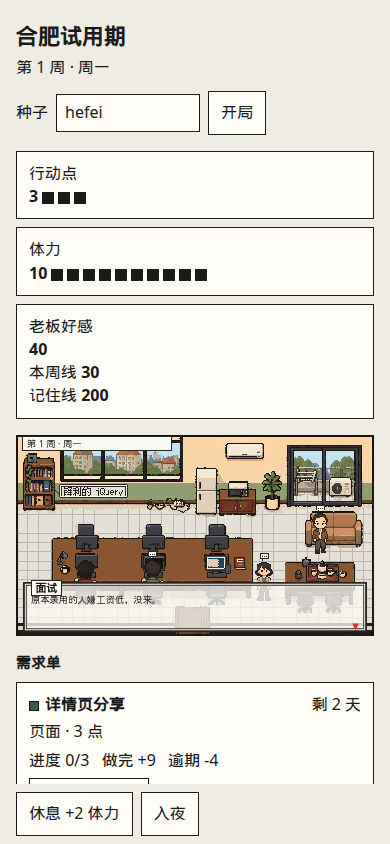
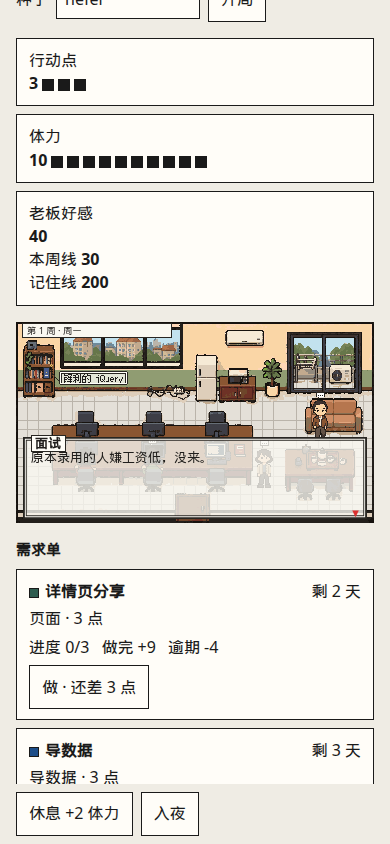
把设计师说明放回合肥原型目录，并加大窄屏对话字号
线上美术记录恢复成 0471bd6。390 宽时名牌、正文和选项至少 13px，对话窗仍在场景框内。操作按钮的点击和对比度加了检查。

diff --git a/games/career-rpg/proto/style.css b/games/career-rpg/proto/style.css
@@ -370,14 +370,14 @@ dd { margin: 0; }
   background: #fffef8;
   border: calc(1 / 384 * 100cqw) solid #282622;
   padding: 0 calc(4 / 384 * 100%);
-  font-size: calc(12 / 384 * 100cqw);
+  font-size: max(13px, calc(12 / 384 * 100cqw));
   line-height: 1.2;
   font-weight: 650;
 }
 
 .dialogue p {
   margin: 0;
-  font-size: calc(10 / 384 * 100cqw);
+  font-size: max(13px, calc(10 / 384 * 100cqw));
   line-height: 1.1;
 }
 
@@ -394,7 +394,7 @@ dd { margin: 0; }
   border: calc(1 / 384 * 100cqw) solid #282622;
   background: #f9f8f1;
   color: #201e1c;
-  font-size: calc(10 / 384 * 100cqw);
+  font-size: max(13px, calc(10 / 384 * 100cqw));
   line-height: 1.1;
 }
 
@@ -505,6 +505,13 @@ button:disabled, button:disabled:hover {
 }
 
 .cell.hot .creep { background: #fffdf8; }
+
+@container (max-width: 520px) {
+  .dialogue {
+    top: calc(124 / 216 * 100%);
+    height: calc(88 / 216 * 100%);
+  }
+}
 
 @media (max-width: 720px) {
   header, .status, .board { display: block; }

diff --git a/games/career-rpg/art/README.md b/games/career-rpg/art/README.md
@@ -1,135 +1,43 @@
-# 像素前端 · 合肥试用期玩法 · 像素视觉稿 v1
+# 首轮像素美术方向
 
-状态：候选稿，每张只出一个推荐款，等用户过图。没写游戏代码，没改仓库。
-所有坐标都是**美术建议，最终以工程定的为准**。
+## 当前制作路线（2026-11-05）
 
-## 文件（每张都有逻辑尺寸 + `-x4` 最近邻放大）
+人物、表情和关键动作采用image_gen，实际输入南京对应参考；已有可用人物优先复用。程序负责可复用环境物件及裁切、锚点、图集排布和压缩，原图完整归档，视觉变化须对照复核。详细流程见[技术方案](../technical-plan.md)和[美术规范](./style-guide.md)。程序人物样品只作实验，不替代image_gen人物路线。
 
-| 文件 | 内容 | 逻辑尺寸 |
-|---|---|---|
-| `01-main-day.png` / `-x4` | 主界面 · 白天（第 2 周 · 周一，示例状态） | 384×424 |
-| `01b-main-day-talk.png` / `-x4` | 白天 · 和饭搭子说话（对话窗 + 两个选项） | 384×424 |
-| `02-main-night.png` / `-x4` | 主界面 · 夜里（熬夜 / 开黑队友来叫打 Dota） | 384×424 |
-| `06-dota-minigame.png` / `-x4` | 打 Dota 补刀小游戏（打到一半） | 384×216 |
-| `03-ending-quit.png` / `-x4` | 结局「被劝退」 | 384×216 |
-| `04-ending-stay.png` / `-x4` | 结局「勉强留下来」 | 384×216 |
-| `05-ending-remembered.png` / `-x4` | 结局「留下来，还被老板记住了」 | 384×216 |
-| `07-seated-sprites.png` / `-x4` | 坐姿精灵表（透明底），4 列 × 4 行 | 224×224 |
-| `overview.png` | 总览（x2，含 07） | 2368×1916 |
-| `source/` | `build.py`（01/01b/02/结局）、`dota.py`（06）、`overview.py`、`layout.json`、字体（Fusion Pixel，OFL 授权） | — |
+用户已授权先准备剩余场景缺失的人物图，按[全旅程人物清单](./character-roster.md)登记生成与复用；这项素材准备不代表场景通过或允许批量接入。以下内容保留为历史，不按旧“仅概念图”状态推进任务。
 
-## 画布
+## 当前成品与合并结论（2026-11-05）
 
-- 主界面 384×424 = 上面是场景 384×216（和 hefei-v3 一样大），下面是 HUD 384×208，用黑色游戏框做底。
-- 结局卡和 Dota 小游戏是 384×216，盖在场景区上面。
-- 中文用 Fusion Pixel 10px / 12px 位图字体渲染，不抗锯齿，一个像素一个像素都是实心的；标题是 12px ×2。没有用生图模型出中文。
+南京完整样章已接入 `../web/art/office-room-v2.png`、`player-walk-v1.png`、`npc-team-v1.png`、`player-emotions-v1.png`、`typing-team-v1.png`；人物设定为本目录的 `character-front-v1.png`、`character-four-directions-v1.png`。这些已实现素材共同构成用户本次指定基准，详见[美术规范](./style-guide.md)。本轮已通过 `view_image` 打开七张原图核对，未重画、未规整或修改原图。
 
-## 复用的素材（没有从头重画）
+下列段落与同名 review 是各轮当时的记录，“尚未四向”“尚无动画”等不再代表当前实现。旧 v1 概念板只辅助；grid-sample 曾被作者认为不好看，不作为正式造型。最新坐姿／气泡视觉、严格网格等未验结论继续保留，不以素材齐备冒充验收通过。
 
-- 场景：`hefei-v3/hefei-office-day/day-384x216.png`、`hefei-office-night/night-384x216.png`（夜里那张自带台灯光圈）
-- 桌上道具：`hefei-v2/hefei-props`（linux-git-screen、db-nosql-screen、java-book）。frontend-jquery 显示器没放，因为 jQuery 现在是书架彩蛋
-- 人物：`typing-team-v1`（坐着打字的背影：我 = 红衣，隔壁工位老哥 = 绿衣）、`npc-team-v1`（饭搭子 = 米色外套，开黑队友 = 蓝外套戴眼镜）、老板 = `hefei-founder-walk`，老板头像 = `hefei-founder-emotions/approving-32`、玩家 = `player-walk-v2`
-- 对话窗 = dialogue-ui-v1 的米色样式（x=8, y=158, w=368, h=54，四圈描边：墨 / 墨 / 亮边 / 墨，白名牌，红色向下箭头）
+目标此前的 [NJ-CHAR-001](./requests/NJ-CHAR-001.json) 重复请求已标 `superseded`，指向现有四向与行走图，不再等待生成。[旧清单](./nanjing-scene-inventory.md)与 preflight 仅供追溯，不能作为制作进度。
 
-## 配色
+## 以下为生成历史
 
-- 场景和新画的像素（书脊、纸箱、星光、代码行、影魔、小兵、Dota 草地）都吸附到 `hefei-v3-shared` 调色板里最接近的颜色；没有往调色板里加新色
-- HUD 用锁定的 dialogue-ui-v1 颜色：米色 RGB(249,248,241)、亮边 (255,254,248)、墨色 (40,38,34)、正文 (32,30,28)、次要文字 (110,104,96)、红箭头 (220,48,48)/(140,24,24)
-- **透明度**：叠在场景上的元素（左上周次条、书架标签、对话窗）用 alpha 204。底部 HUD、结局卡和 Dota 按钮是放在黑框上的，所以改成不透明 255；如果在黑底上还用 204，米色会变成灰褐色（大约 205,204,198）。这是我做的取舍，请过图时确认
+## 严格网格小样
 
-## 界面元素和规则文档 / 原型的对应关系
+2026-11-04：[小样说明](./grid-sample-v1/README.md)、[预览](./grid-sample-v1/preview.png)、[自检](./grid-sample-v1/verification.json)与[独立抽验](./grid-sample-v1/codex-audit.json)。Flash 制作原始矩阵和导出流程，Codex 按用户授权接管人物可读性和精确配色检查。小样技术检查通过，作者尚未确认；未替代办公室概念板或生产素材验收。
 
-| 界面上 | 来源 |
-|---|---|
-| 行动点 3/3（3 个格子）、体力 10/10（10 个格子）、老板好感 45 + 本周线 40 | 文档「资源」，原型标签「行动点 / 体力 / 老板好感 / 本周线」 |
-| 需求单：写一个文件数据库（主线 · 8 点 · 第 4 周周五前 · 进度 0/8 · 做完 +30 · 先学数据库）、写接口（剩 1 天 · 做 · 还差 3 点）、排查服务器日志（已延期 · 逾期 -4） | 原型截图 `review/filedb-locked.png` 里的原文 |
-| 技能卡：Linux 0/2、Git 0/3、数据库 0/3、Java 0/4（只能夜里学）、jQuery 0/3（书架彩蛋，按钮写「读」） | 文档「技能」+ 原型。卡片太窄，效果句做了缩写，比如「服务器单、事件单 1 点」「接口单 -1 点 / 大单每次 +1」，意思和文档一致，最终措辞以工程为准 |
-| 区块标题「需求单」「技能」 | 原型用「需求单」；「技能」取自文档章节名（原型里叫「学习」+「书架」） |
-| 白天按钮「休息 +2 体力」；夜里按钮「熬夜 +1 点 / -3 体力」「睡觉，进入下一天」 | 原型按钮文案 + 文档「夜里熬夜」 |
-| 书架彩蛋：书架中间一层抽出半本蓝书，旁边有星光，墙上挂一块米色小牌「锋利的 jQuery」 | 文档「彩蛋」 |
-| 四个能互动的人（只用一个白色「…」小气泡表示能点，不写任何文字提示） | 文档「能互动的同事」 |
-| 01b 对话：名牌「饭搭子」，台词「好饿，去吃面吗？」，选项「去（-1 行动点 +3 体力）」「下次」；选中的那项用浅黄底 + 红色像素三角 | 用户给的原话。文档里写的是「好饿，去吃面」，没有「吗？」，我用了用户这一版 |
-| Dota：「打 Dota」「影魔，三个影压」「补刀 2/6」「还剩 21 秒」「跳过」，按钮「短 / 中 / 远」 | 原型 dota 界面 + 文档。原型显示的是「击杀 N」，我按用户和文档的说法（补刀满 6 个）改成了「补刀」 |
-| Dota 跑道：影魔站在第 0 格，第 1–7 格是路，第 2/4/6 格分别标「短 / 中 / 远」 | 原型 `dota.mjs`（距离 2/4/6）。用户说的是「三格」，我按原型画了 7 格，其中 3 格打了标记，请确认 |
-| 结局小字：被劝退「第 1 周周五，老板好感 28，低于本周线 30，被劝退。」；勉强留下来「勉强留下来。人留下了。文件数据库还没写完。」；记住了「留下来，还被老板记住了。文件数据库交上去了。」 | 原型 `rules.mjs` 的 failReason 模板和 `config.mjs` 的 ENDINGS（数字是示例） |
-| 结局数据栏：周次 / 好感 / 本周线 / 体力 / 做完的单 / 延期与事故 / 学会 / 文件数据库，按钮「再来一局」「换个种子」 | 原型结局页字段；数值是示例，卡上标了「（数据为示例）」 |
+2026-11-04，使用内置 imagegen 生成 [概念板 v1](./nanjing-art-direction-v1.png)，完整提示词见 [prompt-v1.txt](./prompt-v1.txt)。
 
-## 站位（脚底锚点，逻辑像素 · 美术建议，最终以工程定的为准）
+本图是待审阅的概念参考，尚未获得用户对具体视觉的确认。主场景为南京办公室，辅以主角前／侧／背面、配色、道具、合肥宿舍、南京深夜与对话框。场所、服装和人物外貌均为设定，不还原真实办公室或本人外貌。
 
-| 角色 | 位置 |
-|---|---|
-| 我 | B1 工位 (75,176)，坐着，背对镜头 |
-| 隔壁工位老哥 | B2 工位 (147,176)，坐着（就在玩家右手边） |
-| 饭搭子 | 站在 B3 工位右边的过道 (266,178) |
-| 老板 | 茶桌，沙发和茶桌之间 (326,128) |
-| 开黑队友（只在夜里） | 站在玩家工位右后方过道 (106,200) |
+AI 视觉复核：方向、办公室动线、角色识别与中文对话可读；暖色日景和夜间书桌存在明确区别。图中带有纹理、细腻阴影及不统一的像素大小，不符合严格生产网格；仅给出一侧侧面，未提供完整四向动画。正式制作时需要规整素材、削减细节，并在实际渲染中确认像素清晰度。概念板不能直接作为图集切割使用。
 
-文档只写了「站在工位或茶桌边」，具体坐标是我定的。
+下一次审阅聚焦：是否喜欢这一视角与人物比例，是否需要更粗颗粒的像素，整体是否过于温暖或可爱。确认方向后再做一组严格网格样品，暂不制作其他城市完整地图。
 
-HUD 位置（01/02）：周次条 (6,2)；三个指标框 y=220，宽 124，高 30；需求单 y=267，宽 140/108/128，高 60；技能卡 y=344，宽 74×4 + 72，高 58；按钮行 y=406。对话窗 (8,158,368,54)。
+## v2 / v3 修订记录
 
-## 还需要手工或代码打磨的地方
+2026-11-04：Flash 生成 [v2 提示词](./prompt-v2.txt)和[自检计划](./review-v2-plan.md)，Codex 使用内置 imagegen 生成 [v2](./nanjing-art-direction-v2.png)，再按 [v3 提示词](./prompt-v3.txt)编辑为 [v3](./nanjing-art-direction-v3.png)。未覆盖 v1。
 
-- 01b 的对话窗会挡住饭搭子的腿，dialogue-ui-v1 也是这样处理的；如果要露出全身，需要工程把她往上挪
-- 半透明的周次条和书架标签压在窗框上，背后的窗框会透出来；只是装饰性的，文字仍然清楚
-- 夜里显示器上的代码行 / 小地图只有几个像素（玩家的头挡住了屏幕中间），想更明显可以做成动画闪烁
-- 星光、选项光标、▼ 闪烁这些动画交给工程
-- 技能效果的缩写措辞需要工程 / 制作人确认
+[v2 自验](./review-v2.md)、[v3 自验](./review-v3.md)和[图片审计](./image-audit-v2-v3.json)已落盘。v3 轮廓更简洁，但仍有渐变与像素尺度问题，尚未通过 ART-01，不要求作者正式验收。
 
-## 06 影魔（v2，按用户反馈「原版形象像素化」重画）
+## 按样张重画正面角色
 
-- 旧版原创恶魔已备份到 `source/_old-06/`
-- 参考图只放在 `source/ref-shadowfiend/`（`render.png`、`portrait.png`，来自 Steam 官方 CDN），只作参考，没有直接贴进游戏图
-- 流程：GenerateImage 先出一张像素风草稿（`source/sf-pixel-gen.jpg`，提示词见 `source/sf-prompt.txt`）→ 抠白底 → 缩到 1× 高 56px → 吸附到 8 色 SF 调色板 → 去掉孤立杂点 → 加 1px 外描边 → 手工补红光描边、双眼、胸口魂火、底部火星（`source/sf.py`）。成品是 `source/sf-56.png`，47×58，透明底，硬边
-- 能认出来的特征：一对弯角、翅膀一样的肩刺、发红光的双眼、胸口魂火、细长手臂和爪子、下半身化成烟和火星
-- 1× 显示，和小兵、跑道一个比例；占的格子和之前差不多，因为有角，高了几个像素。小兵仍是 2×
-- **新加的颜色**（只给影魔用，hefei-v3 调色板之外追加）：#120A14、#281428、#421E34、#601622、#961A1E、#CE281E、#F46028、#FFBE5A，外描边 #0C080E
+[正面角色 v1](./character-front-v1.png)参考办公室 v3 样张，内置 imagegen 生成；[完整提示词](./character-front-v1-imagegen-prompt.txt)与[审阅记录](./character-front-v1-review.md)已保存。本轮审阅造型，尚非生产图集。
 
-## 坐姿（v2，按用户反馈「小人像蹲在椅子上」重做）
+## 四向角色与办公室道具
 
-- 旧图已备份到 `source/_old-seated/`（01、01b、02、03、04、05、overview）
-- **背面（下排 B1–B3 工位）**：仍用 `typing-team-v1` 的头和上身，整体下沉 2px，在 y=163 以下把腿和裤子裁掉（不再露出蹲着的腿），然后把场景里的椅背像素（y 158–175）重新画在人的前面。效果是人坐进椅子、靠着椅背，只露出头、肩和放在桌沿上的手。改动涉及 01、01b、02，以及 03（老哥）、04（我和老哥）。05 里没有坐着的人，所以没改
-- **正面（上排 T1–T3，暂时没人坐）**：用站立精灵的上身（0–28 行）+ 5 行往镜头方向缩短的大腿（膝盖有一行亮色，两腿之间有一条暗缝）+ 4 行垂下来的小腿和鞋。在场景里桌面和显示器会挡住腿
-- **07 精灵表** 224×224，每格 56×56，透明底。列：我、隔壁工位老哥、饭搭子、开黑队友。行：① 背面裸图 ② 背面坐在 B1 椅子上（带场景） ③ 正面裸图 ④ 正面坐在椅子上（借用 B1 椅子做背景）
-- 单张素材在 `source/seated/`：`{player,neighbor,lunch,gamer}-{back,front}.png`，尺寸见 `meta.json`
-
-**锚点（美术建议，最终以工程定的为准）**
-
-| | 精灵尺寸 | 怎么放 | 臀部点 |
-|---|---|---|---|
-| 背面 | 25–26 × 29 | 左上角 = (座位 x − 12, 134)，例如 B1 = (63,134)，B2 = (135,134)；画完人再画椅背（x = 座位 x ± 10，y 158–175，只画椅子颜色的像素） | 精灵内 (12, 28)，对应场景 (座位 x, 162) |
-| 正面 | (原宽 + 2) × 38 | 脚底锚点 = 座位 (x, 107)，桌子和显示器画在人前面 | 精灵内 (宽/2, 29)，也就是大腿开始的那一行 |
-
-- 正面坐姿（v3）：手不再垂在两侧。手肘留在身体两侧（袖子），前臂往前搭过腰线，双手放在大腿上（3×2 肤色，下面有暗边），见 `source/hands.py`。坐在椅子上那一行也是手放在腿上。尺寸和锚点都没变。改之前的版本备份在 `source/_old-07-hands/`
-
-## 结局卡 · 无字版（-notext）
-文件：`03-ending-quit-notext(-x4).png`、`04-ending-stay-notext(-x4).png`、`05-ending-remembered-notext(-x4).png`。原图没动。
-生成方式：`python3 source/build.py endnotext`，也就是给 `ending(kind, notext=True)` 加了一个开关，没有手工擦图。
-无字版去掉了所有烤进图里的字：标题、示例文案、数据（好感、本周线等）、字段名，还有按钮上的字。插图、奶油色卡片、双线边框都保留，「被老板记住」那张的金色外框也在。原来放字的地方换成同款双线边框的空白奶油面板，字全部交给代码来画。
-
-文字区（卡片是 384×216，格式为 x, y, w, h）——**美术建议，最终以工程定的为准**
-| 区域 | 矩形 | 原来的内容 |
-|---|---|---|
-| header | (26, 16, 332, 42) | 结局标题（2 倍字号，居中）+ 一行摘要 |
-| stats | (202, 60, 156, 104) | 8 行数据（字段名 / 数值，行高 12）+「数据为示例」那行 |
-| btn_retry | (254, 184, 50, 13) | 再来一局 |
-| btn_reseed | (308, 184, 50, 13) | 换个种子 |
-
-插图位置不变，在 (26, 62, 168, 100)，外面有一圈 2px 墨色框。
-建议留白：header 和 stats 里文字离边框至少 5px（边框占 3px）。按钮里的字左边留 5px、上边留 1px，和原来的 button() 一样。
-
-## 02 夜里 v2（`02-main-night-v2(-x4).png`）
-新增的文件，`02-main-night` 原图没有改。生成方式：`python3 source/night_v2.py`。它会读入 build.py 的场景和 HUD，但不改 build.py。
-场景和 HUD 跟 v1 完全一样，「我」（B1）和开黑队友（站在 (106,200)）的位置和画法也照旧。新加了三个坐着的人，**坐标都是美术建议，最终以工程定的为准**：
-
-| 人物 | 位置 | 姿势 | 脚底 / 臀部锚点（384×216） | 包围盒 |
-|---|---|---|---|---|
-| 隔壁工位老哥 | B2 工位 | 背对镜头坐进椅子，用的是 07 的背面坐姿：下沉 2px，y=163 以下裁掉，椅背重新画在人前面 | 脚底 (147,176) | (134,134)–(159,175) |
-| 饭搭子 | B3 工位 | 同上 | 脚底 (219,176) | (206,134)–(232,175) |
-| 老板 | 沙发左边的座位，在茶桌后面，面朝镜头 | 正面坐姿，下半身逐像素手绘（`night_v2.py` 里的 `BOSS_LOWER`）：两只手放在大腿外侧，手的颜色比夜里压暗后的脸稍亮一点，用墨色描边，暗光下也看得出来；袖口顺着身体两侧垂下来；膝盖顶边稍亮；小腿垂在座垫前面 | 臀部 (329,107)，比上一版下沉 3px 坐进座垫，座垫在 y≈99–113 | (320,79)–(339,119) |
-
-- 茶桌那两把椅子朝上（背对镜头），沙发朝下（正对镜头），所以老板坐沙发、用正面姿势。他们三个都没有加对话气泡，因为夜里能互动的仍然只有开黑队友。
-- **夜里的光照只加在新加的三个人身上**：颜色乘以 (0.55,0.6,0.8)，和 v1 里夜间道具用的系数一样。老板那边没有显示器，所以压得更暗一点：(0.5,0.55,0.75)。
-- 老哥和饭搭子面前的显示器亮着，所以在他们的头顶和肩膀上补了一圈很淡的屏幕光：跳过轮廓线，往里 2px，混合 22%。老哥那圈偏绿（B2 屏幕上是代码），饭搭子那圈偏蓝（B3 屏幕上是数据库界面）。
-- 老板两侧加了 1px 的接触阴影：靠背上贴着肩膀和身体两边、座垫上贴着臀部两边，把沙发颜色压暗 28%，看起来是靠在沙发里，不是浮在上面。改之前的版本备份在 `source/_old-night-v2/`。
-- 包围盒存在 `source/night-v2-boxes.json`。
+2026-11-04，Codex 使用内置 imagegen 完成 [四向角色](./character-four-directions-v1.png)和[办公室道具板](./office-props-v1.png)。完整提示词与审阅记录保存为同名 `-prompt.txt`、`-review.md`。造型一致性已复核，尚未制作生产图集或行走动画。

diff --git a/games/career-rpg/proto/art/README.md b/games/career-rpg/proto/art/README.md
@@ -1,0 +1,135 @@
+# 像素前端 · 合肥试用期玩法 · 像素视觉稿 v1
+
+状态：候选稿，每张只出一个推荐款，等用户过图。没写游戏代码，没改仓库。
+所有坐标都是**美术建议，最终以工程定的为准**。
+
+## 文件（每张都有逻辑尺寸 + `-x4` 最近邻放大）
+
+| 文件 | 内容 | 逻辑尺寸 |
+|---|---|---|
+| `01-main-day.png` / `-x4` | 主界面 · 白天（第 2 周 · 周一，示例状态） | 384×424 |
+| `01b-main-day-talk.png` / `-x4` | 白天 · 和饭搭子说话（对话窗 + 两个选项） | 384×424 |
+| `02-main-night.png` / `-x4` | 主界面 · 夜里（熬夜 / 开黑队友来叫打 Dota） | 384×424 |
+| `06-dota-minigame.png` / `-x4` | 打 Dota 补刀小游戏（打到一半） | 384×216 |
+| `03-ending-quit.png` / `-x4` | 结局「被劝退」 | 384×216 |
+| `04-ending-stay.png` / `-x4` | 结局「勉强留下来」 | 384×216 |
+| `05-ending-remembered.png` / `-x4` | 结局「留下来，还被老板记住了」 | 384×216 |
+| `07-seated-sprites.png` / `-x4` | 坐姿精灵表（透明底），4 列 × 4 行 | 224×224 |
+| `overview.png` | 总览（x2，含 07） | 2368×1916 |
+| `source/` | `build.py`（01/01b/02/结局）、`dota.py`（06）、`overview.py`、`layout.json`、字体（Fusion Pixel，OFL 授权） | — |
+
+## 画布
+
+- 主界面 384×424 = 上面是场景 384×216（和 hefei-v3 一样大），下面是 HUD 384×208，用黑色游戏框做底。
+- 结局卡和 Dota 小游戏是 384×216，盖在场景区上面。
+- 中文用 Fusion Pixel 10px / 12px 位图字体渲染，不抗锯齿，一个像素一个像素都是实心的；标题是 12px ×2。没有用生图模型出中文。
+
+## 复用的素材（没有从头重画）
+
+- 场景：`hefei-v3/hefei-office-day/day-384x216.png`、`hefei-office-night/night-384x216.png`（夜里那张自带台灯光圈）
+- 桌上道具：`hefei-v2/hefei-props`（linux-git-screen、db-nosql-screen、java-book）。frontend-jquery 显示器没放，因为 jQuery 现在是书架彩蛋
+- 人物：`typing-team-v1`（坐着打字的背影：我 = 红衣，隔壁工位老哥 = 绿衣）、`npc-team-v1`（饭搭子 = 米色外套，开黑队友 = 蓝外套戴眼镜）、老板 = `hefei-founder-walk`，老板头像 = `hefei-founder-emotions/approving-32`、玩家 = `player-walk-v2`
+- 对话窗 = dialogue-ui-v1 的米色样式（x=8, y=158, w=368, h=54，四圈描边：墨 / 墨 / 亮边 / 墨，白名牌，红色向下箭头）
+
+## 配色
+
+- 场景和新画的像素（书脊、纸箱、星光、代码行、影魔、小兵、Dota 草地）都吸附到 `hefei-v3-shared` 调色板里最接近的颜色；没有往调色板里加新色
+- HUD 用锁定的 dialogue-ui-v1 颜色：米色 RGB(249,248,241)、亮边 (255,254,248)、墨色 (40,38,34)、正文 (32,30,28)、次要文字 (110,104,96)、红箭头 (220,48,48)/(140,24,24)
+- **透明度**：叠在场景上的元素（左上周次条、书架标签、对话窗）用 alpha 204。底部 HUD、结局卡和 Dota 按钮是放在黑框上的，所以改成不透明 255；如果在黑底上还用 204，米色会变成灰褐色（大约 205,204,198）。这是我做的取舍，请过图时确认
+
+## 界面元素和规则文档 / 原型的对应关系
+
+| 界面上 | 来源 |
+|---|---|
+| 行动点 3/3（3 个格子）、体力 10/10（10 个格子）、老板好感 45 + 本周线 40 | 文档「资源」，原型标签「行动点 / 体力 / 老板好感 / 本周线」 |
+| 需求单：写一个文件数据库（主线 · 8 点 · 第 4 周周五前 · 进度 0/8 · 做完 +30 · 先学数据库）、写接口（剩 1 天 · 做 · 还差 3 点）、排查服务器日志（已延期 · 逾期 -4） | 原型截图 `review/filedb-locked.png` 里的原文 |
+| 技能卡：Linux 0/2、Git 0/3、数据库 0/3、Java 0/4（只能夜里学）、jQuery 0/3（书架彩蛋，按钮写「读」） | 文档「技能」+ 原型。卡片太窄，效果句做了缩写，比如「服务器单、事件单 1 点」「接口单 -1 点 / 大单每次 +1」，意思和文档一致，最终措辞以工程为准 |
+| 区块标题「需求单」「技能」 | 原型用「需求单」；「技能」取自文档章节名（原型里叫「学习」+「书架」） |
+| 白天按钮「休息 +2 体力」；夜里按钮「熬夜 +1 点 / -3 体力」「睡觉，进入下一天」 | 原型按钮文案 + 文档「夜里熬夜」 |
+| 书架彩蛋：书架中间一层抽出半本蓝书，旁边有星光，墙上挂一块米色小牌「锋利的 jQuery」 | 文档「彩蛋」 |
+| 四个能互动的人（只用一个白色「…」小气泡表示能点，不写任何文字提示） | 文档「能互动的同事」 |
+| 01b 对话：名牌「饭搭子」，台词「好饿，去吃面吗？」，选项「去（-1 行动点 +3 体力）」「下次」；选中的那项用浅黄底 + 红色像素三角 | 用户给的原话。文档里写的是「好饿，去吃面」，没有「吗？」，我用了用户这一版 |
+| Dota：「打 Dota」「影魔，三个影压」「补刀 2/6」「还剩 21 秒」「跳过」，按钮「短 / 中 / 远」 | 原型 dota 界面 + 文档。原型显示的是「击杀 N」，我按用户和文档的说法（补刀满 6 个）改成了「补刀」 |
+| Dota 跑道：影魔站在第 0 格，第 1–7 格是路，第 2/4/6 格分别标「短 / 中 / 远」 | 原型 `dota.mjs`（距离 2/4/6）。用户说的是「三格」，我按原型画了 7 格，其中 3 格打了标记，请确认 |
+| 结局小字：被劝退「第 1 周周五，老板好感 28，低于本周线 30，被劝退。」；勉强留下来「勉强留下来。人留下了。文件数据库还没写完。」；记住了「留下来，还被老板记住了。文件数据库交上去了。」 | 原型 `rules.mjs` 的 failReason 模板和 `config.mjs` 的 ENDINGS（数字是示例） |
+| 结局数据栏：周次 / 好感 / 本周线 / 体力 / 做完的单 / 延期与事故 / 学会 / 文件数据库，按钮「再来一局」「换个种子」 | 原型结局页字段；数值是示例，卡上标了「（数据为示例）」 |
+
+## 站位（脚底锚点，逻辑像素 · 美术建议，最终以工程定的为准）
+
+| 角色 | 位置 |
+|---|---|
+| 我 | B1 工位 (75,176)，坐着，背对镜头 |
+| 隔壁工位老哥 | B2 工位 (147,176)，坐着（就在玩家右手边） |
+| 饭搭子 | 站在 B3 工位右边的过道 (266,178) |
+| 老板 | 茶桌，沙发和茶桌之间 (326,128) |
+| 开黑队友（只在夜里） | 站在玩家工位右后方过道 (106,200) |
+
+文档只写了「站在工位或茶桌边」，具体坐标是我定的。
+
+HUD 位置（01/02）：周次条 (6,2)；三个指标框 y=220，宽 124，高 30；需求单 y=267，宽 140/108/128，高 60；技能卡 y=344，宽 74×4 + 72，高 58；按钮行 y=406。对话窗 (8,158,368,54)。
+
+## 还需要手工或代码打磨的地方
+
+- 01b 的对话窗会挡住饭搭子的腿，dialogue-ui-v1 也是这样处理的；如果要露出全身，需要工程把她往上挪
+- 半透明的周次条和书架标签压在窗框上，背后的窗框会透出来；只是装饰性的，文字仍然清楚
+- 夜里显示器上的代码行 / 小地图只有几个像素（玩家的头挡住了屏幕中间），想更明显可以做成动画闪烁
+- 星光、选项光标、▼ 闪烁这些动画交给工程
+- 技能效果的缩写措辞需要工程 / 制作人确认
+
+## 06 影魔（v2，按用户反馈「原版形象像素化」重画）
+
+- 旧版原创恶魔已备份到 `source/_old-06/`
+- 参考图只放在 `source/ref-shadowfiend/`（`render.png`、`portrait.png`，来自 Steam 官方 CDN），只作参考，没有直接贴进游戏图
+- 流程：GenerateImage 先出一张像素风草稿（`source/sf-pixel-gen.jpg`，提示词见 `source/sf-prompt.txt`）→ 抠白底 → 缩到 1× 高 56px → 吸附到 8 色 SF 调色板 → 去掉孤立杂点 → 加 1px 外描边 → 手工补红光描边、双眼、胸口魂火、底部火星（`source/sf.py`）。成品是 `source/sf-56.png`，47×58，透明底，硬边
+- 能认出来的特征：一对弯角、翅膀一样的肩刺、发红光的双眼、胸口魂火、细长手臂和爪子、下半身化成烟和火星
+- 1× 显示，和小兵、跑道一个比例；占的格子和之前差不多，因为有角，高了几个像素。小兵仍是 2×
+- **新加的颜色**（只给影魔用，hefei-v3 调色板之外追加）：#120A14、#281428、#421E34、#601622、#961A1E、#CE281E、#F46028、#FFBE5A，外描边 #0C080E
+
+## 坐姿（v2，按用户反馈「小人像蹲在椅子上」重做）
+
+- 旧图已备份到 `source/_old-seated/`（01、01b、02、03、04、05、overview）
+- **背面（下排 B1–B3 工位）**：仍用 `typing-team-v1` 的头和上身，整体下沉 2px，在 y=163 以下把腿和裤子裁掉（不再露出蹲着的腿），然后把场景里的椅背像素（y 158–175）重新画在人的前面。效果是人坐进椅子、靠着椅背，只露出头、肩和放在桌沿上的手。改动涉及 01、01b、02，以及 03（老哥）、04（我和老哥）。05 里没有坐着的人，所以没改
+- **正面（上排 T1–T3，暂时没人坐）**：用站立精灵的上身（0–28 行）+ 5 行往镜头方向缩短的大腿（膝盖有一行亮色，两腿之间有一条暗缝）+ 4 行垂下来的小腿和鞋。在场景里桌面和显示器会挡住腿
+- **07 精灵表** 224×224，每格 56×56，透明底。列：我、隔壁工位老哥、饭搭子、开黑队友。行：① 背面裸图 ② 背面坐在 B1 椅子上（带场景） ③ 正面裸图 ④ 正面坐在椅子上（借用 B1 椅子做背景）
+- 单张素材在 `source/seated/`：`{player,neighbor,lunch,gamer}-{back,front}.png`，尺寸见 `meta.json`
+
+**锚点（美术建议，最终以工程定的为准）**
+
+| | 精灵尺寸 | 怎么放 | 臀部点 |
+|---|---|---|---|
+| 背面 | 25–26 × 29 | 左上角 = (座位 x − 12, 134)，例如 B1 = (63,134)，B2 = (135,134)；画完人再画椅背（x = 座位 x ± 10，y 158–175，只画椅子颜色的像素） | 精灵内 (12, 28)，对应场景 (座位 x, 162) |
+| 正面 | (原宽 + 2) × 38 | 脚底锚点 = 座位 (x, 107)，桌子和显示器画在人前面 | 精灵内 (宽/2, 29)，也就是大腿开始的那一行 |
+
+- 正面坐姿（v3）：手不再垂在两侧。手肘留在身体两侧（袖子），前臂往前搭过腰线，双手放在大腿上（3×2 肤色，下面有暗边），见 `source/hands.py`。坐在椅子上那一行也是手放在腿上。尺寸和锚点都没变。改之前的版本备份在 `source/_old-07-hands/`
+
+## 结局卡 · 无字版（-notext）
+文件：`03-ending-quit-notext(-x4).png`、`04-ending-stay-notext(-x4).png`、`05-ending-remembered-notext(-x4).png`。原图没动。
+生成方式：`python3 source/build.py endnotext`，也就是给 `ending(kind, notext=True)` 加了一个开关，没有手工擦图。
+无字版去掉了所有烤进图里的字：标题、示例文案、数据（好感、本周线等）、字段名，还有按钮上的字。插图、奶油色卡片、双线边框都保留，「被老板记住」那张的金色外框也在。原来放字的地方换成同款双线边框的空白奶油面板，字全部交给代码来画。
+
+文字区（卡片是 384×216，格式为 x, y, w, h）——**美术建议，最终以工程定的为准**
+| 区域 | 矩形 | 原来的内容 |
+|---|---|---|
+| header | (26, 16, 332, 42) | 结局标题（2 倍字号，居中）+ 一行摘要 |
+| stats | (202, 60, 156, 104) | 8 行数据（字段名 / 数值，行高 12）+「数据为示例」那行 |
+| btn_retry | (254, 184, 50, 13) | 再来一局 |
+| btn_reseed | (308, 184, 50, 13) | 换个种子 |
+
+插图位置不变，在 (26, 62, 168, 100)，外面有一圈 2px 墨色框。
+建议留白：header 和 stats 里文字离边框至少 5px（边框占 3px）。按钮里的字左边留 5px、上边留 1px，和原来的 button() 一样。
+
+## 02 夜里 v2（`02-main-night-v2(-x4).png`）
+新增的文件，`02-main-night` 原图没有改。生成方式：`python3 source/night_v2.py`。它会读入 build.py 的场景和 HUD，但不改 build.py。
+场景和 HUD 跟 v1 完全一样，「我」（B1）和开黑队友（站在 (106,200)）的位置和画法也照旧。新加了三个坐着的人，**坐标都是美术建议，最终以工程定的为准**：
+
+| 人物 | 位置 | 姿势 | 脚底 / 臀部锚点（384×216） | 包围盒 |
+|---|---|---|---|---|
+| 隔壁工位老哥 | B2 工位 | 背对镜头坐进椅子，用的是 07 的背面坐姿：下沉 2px，y=163 以下裁掉，椅背重新画在人前面 | 脚底 (147,176) | (134,134)–(159,175) |
+| 饭搭子 | B3 工位 | 同上 | 脚底 (219,176) | (206,134)–(232,175) |
+| 老板 | 沙发左边的座位，在茶桌后面，面朝镜头 | 正面坐姿，下半身逐像素手绘（`night_v2.py` 里的 `BOSS_LOWER`）：两只手放在大腿外侧，手的颜色比夜里压暗后的脸稍亮一点，用墨色描边，暗光下也看得出来；袖口顺着身体两侧垂下来；膝盖顶边稍亮；小腿垂在座垫前面 | 臀部 (329,107)，比上一版下沉 3px 坐进座垫，座垫在 y≈99–113 | (320,79)–(339,119) |
+
+- 茶桌那两把椅子朝上（背对镜头），沙发朝下（正对镜头），所以老板坐沙发、用正面姿势。他们三个都没有加对话气泡，因为夜里能互动的仍然只有开黑队友。
+- **夜里的光照只加在新加的三个人身上**：颜色乘以 (0.55,0.6,0.8)，和 v1 里夜间道具用的系数一样。老板那边没有显示器，所以压得更暗一点：(0.5,0.55,0.75)。
+- 老哥和饭搭子面前的显示器亮着，所以在他们的头顶和肩膀上补了一圈很淡的屏幕光：跳过轮廓线，往里 2px，混合 22%。老哥那圈偏绿（B2 屏幕上是代码），饭搭子那圈偏蓝（B3 屏幕上是数据库界面）。
+- 老板两侧加了 1px 的接触阴影：靠背上贴着肩膀和身体两边、座垫上贴着臀部两边，把沙发颜色压暗 28%，看起来是靠在沙发里，不是浮在上面。改之前的版本备份在 `source/_old-night-v2/`。
+- 包围盒存在 `source/night-v2-boxes.json`。
